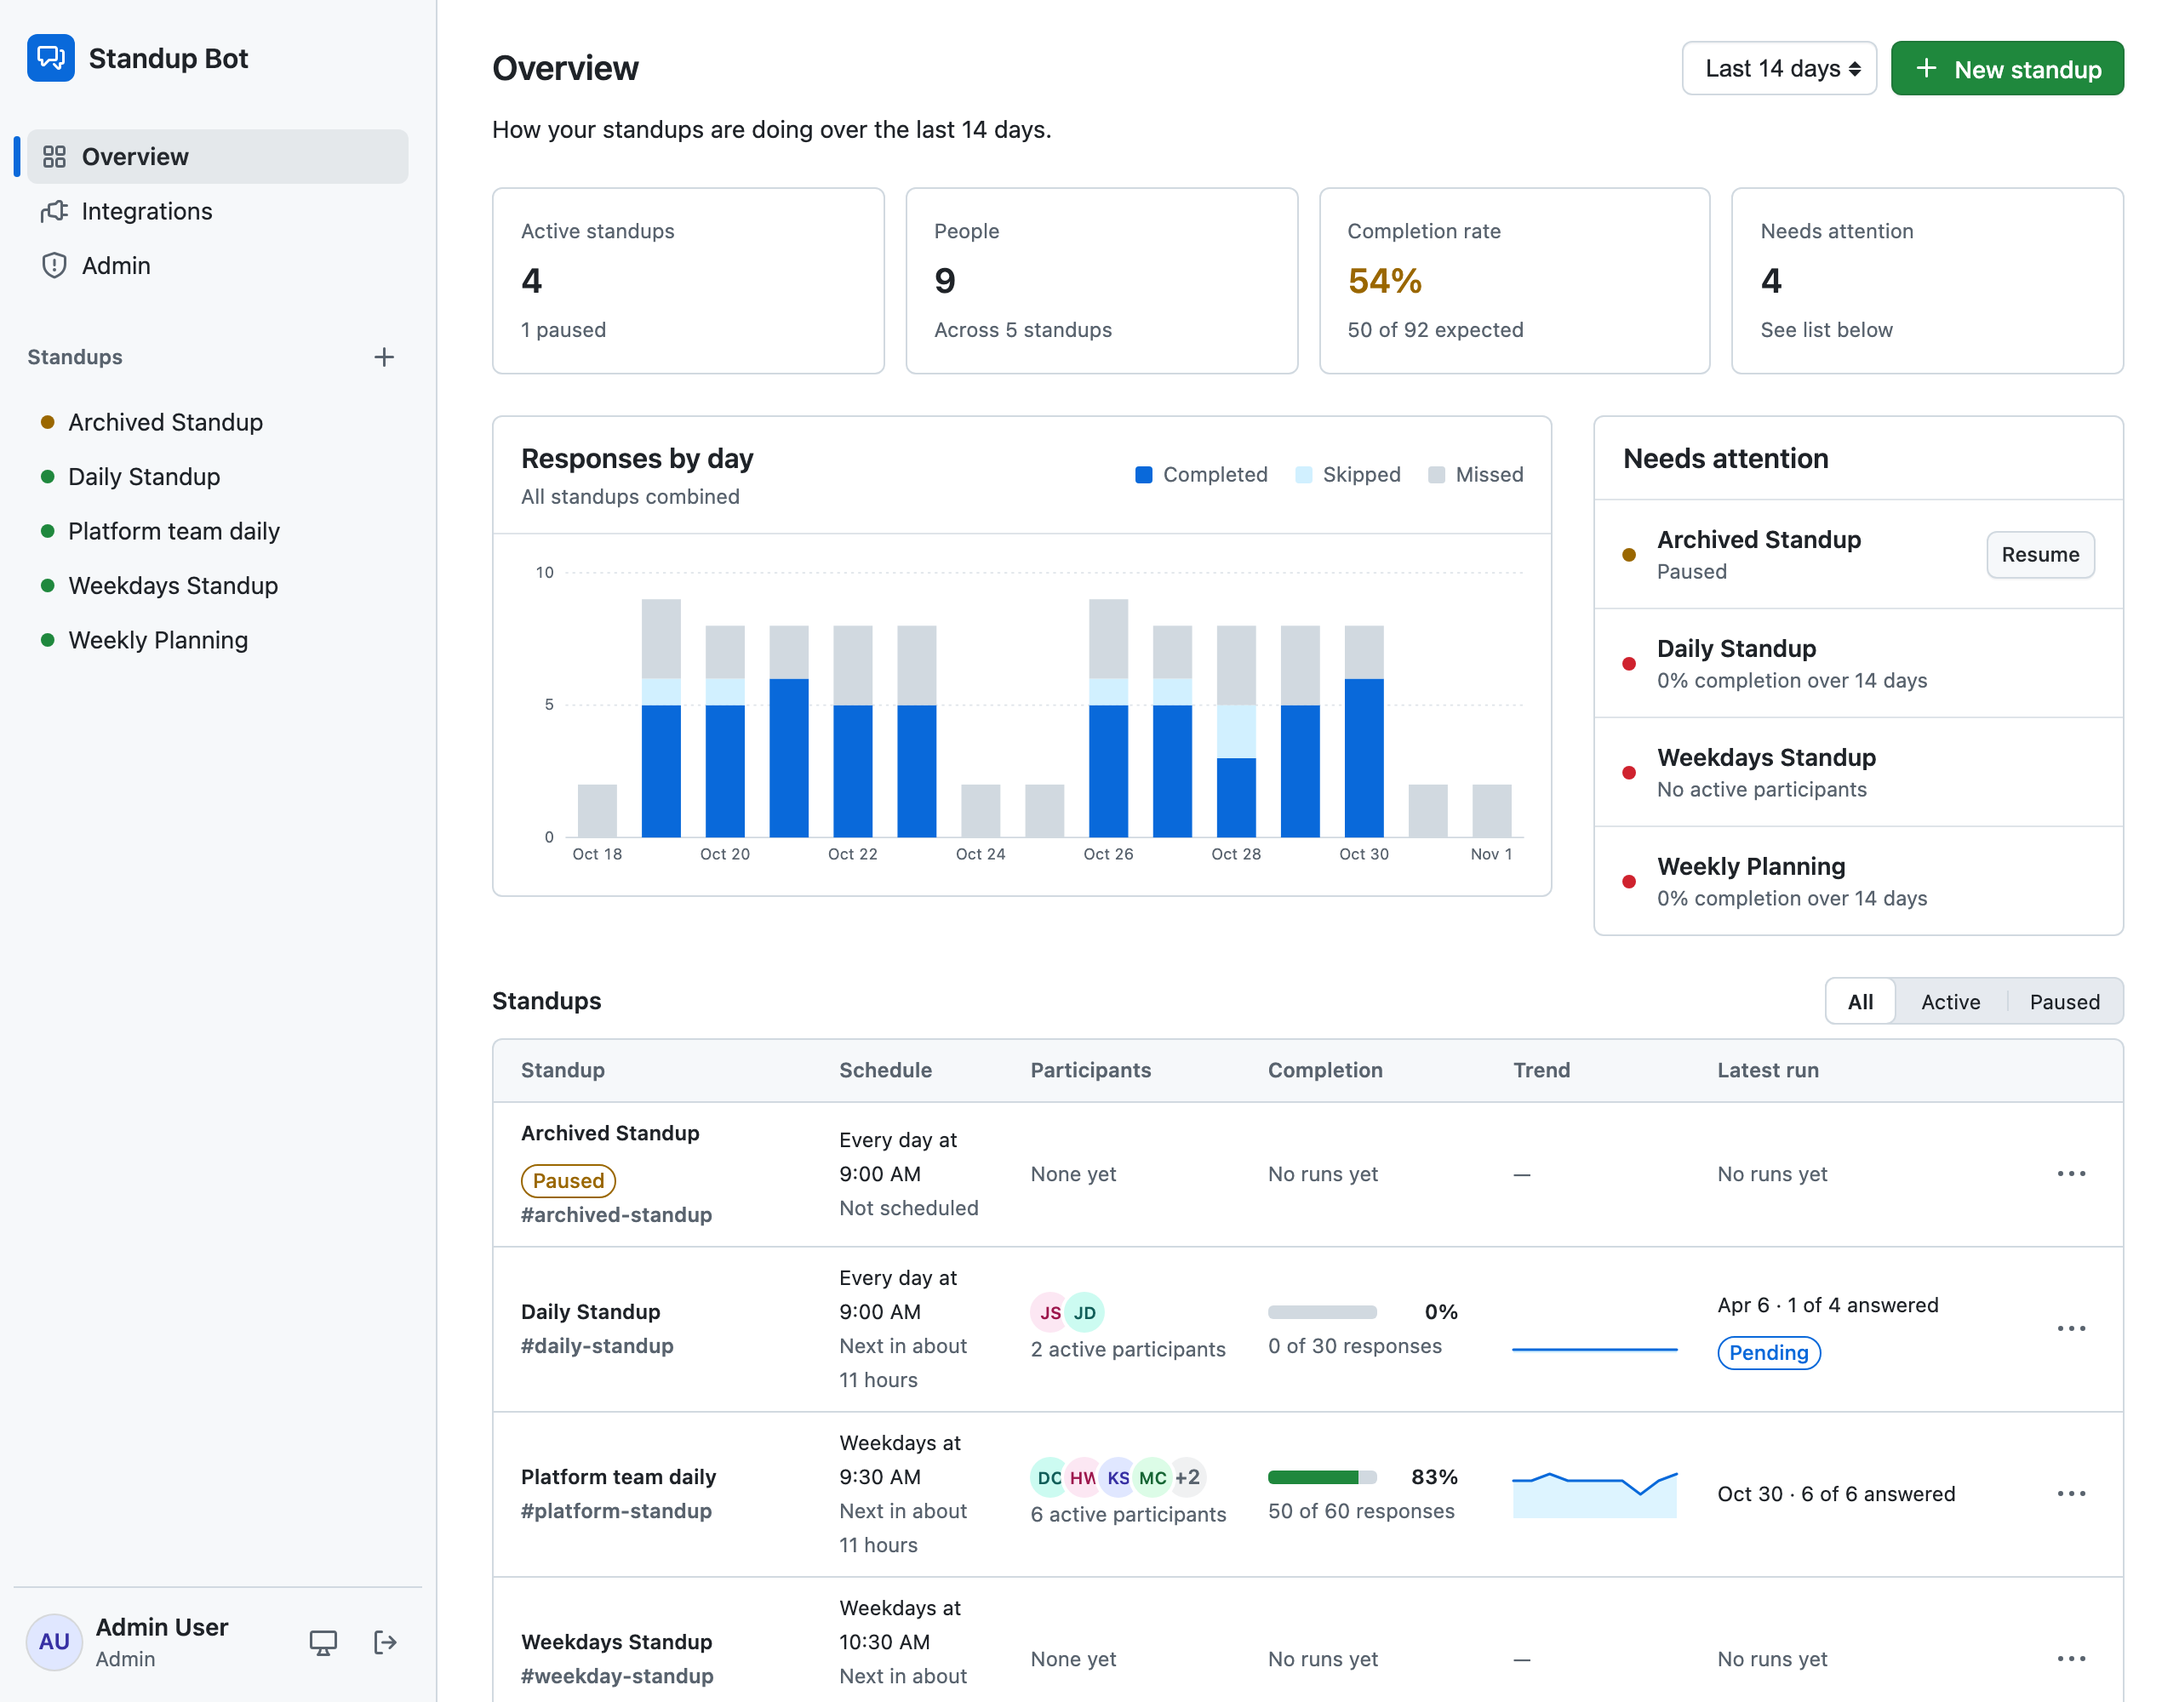
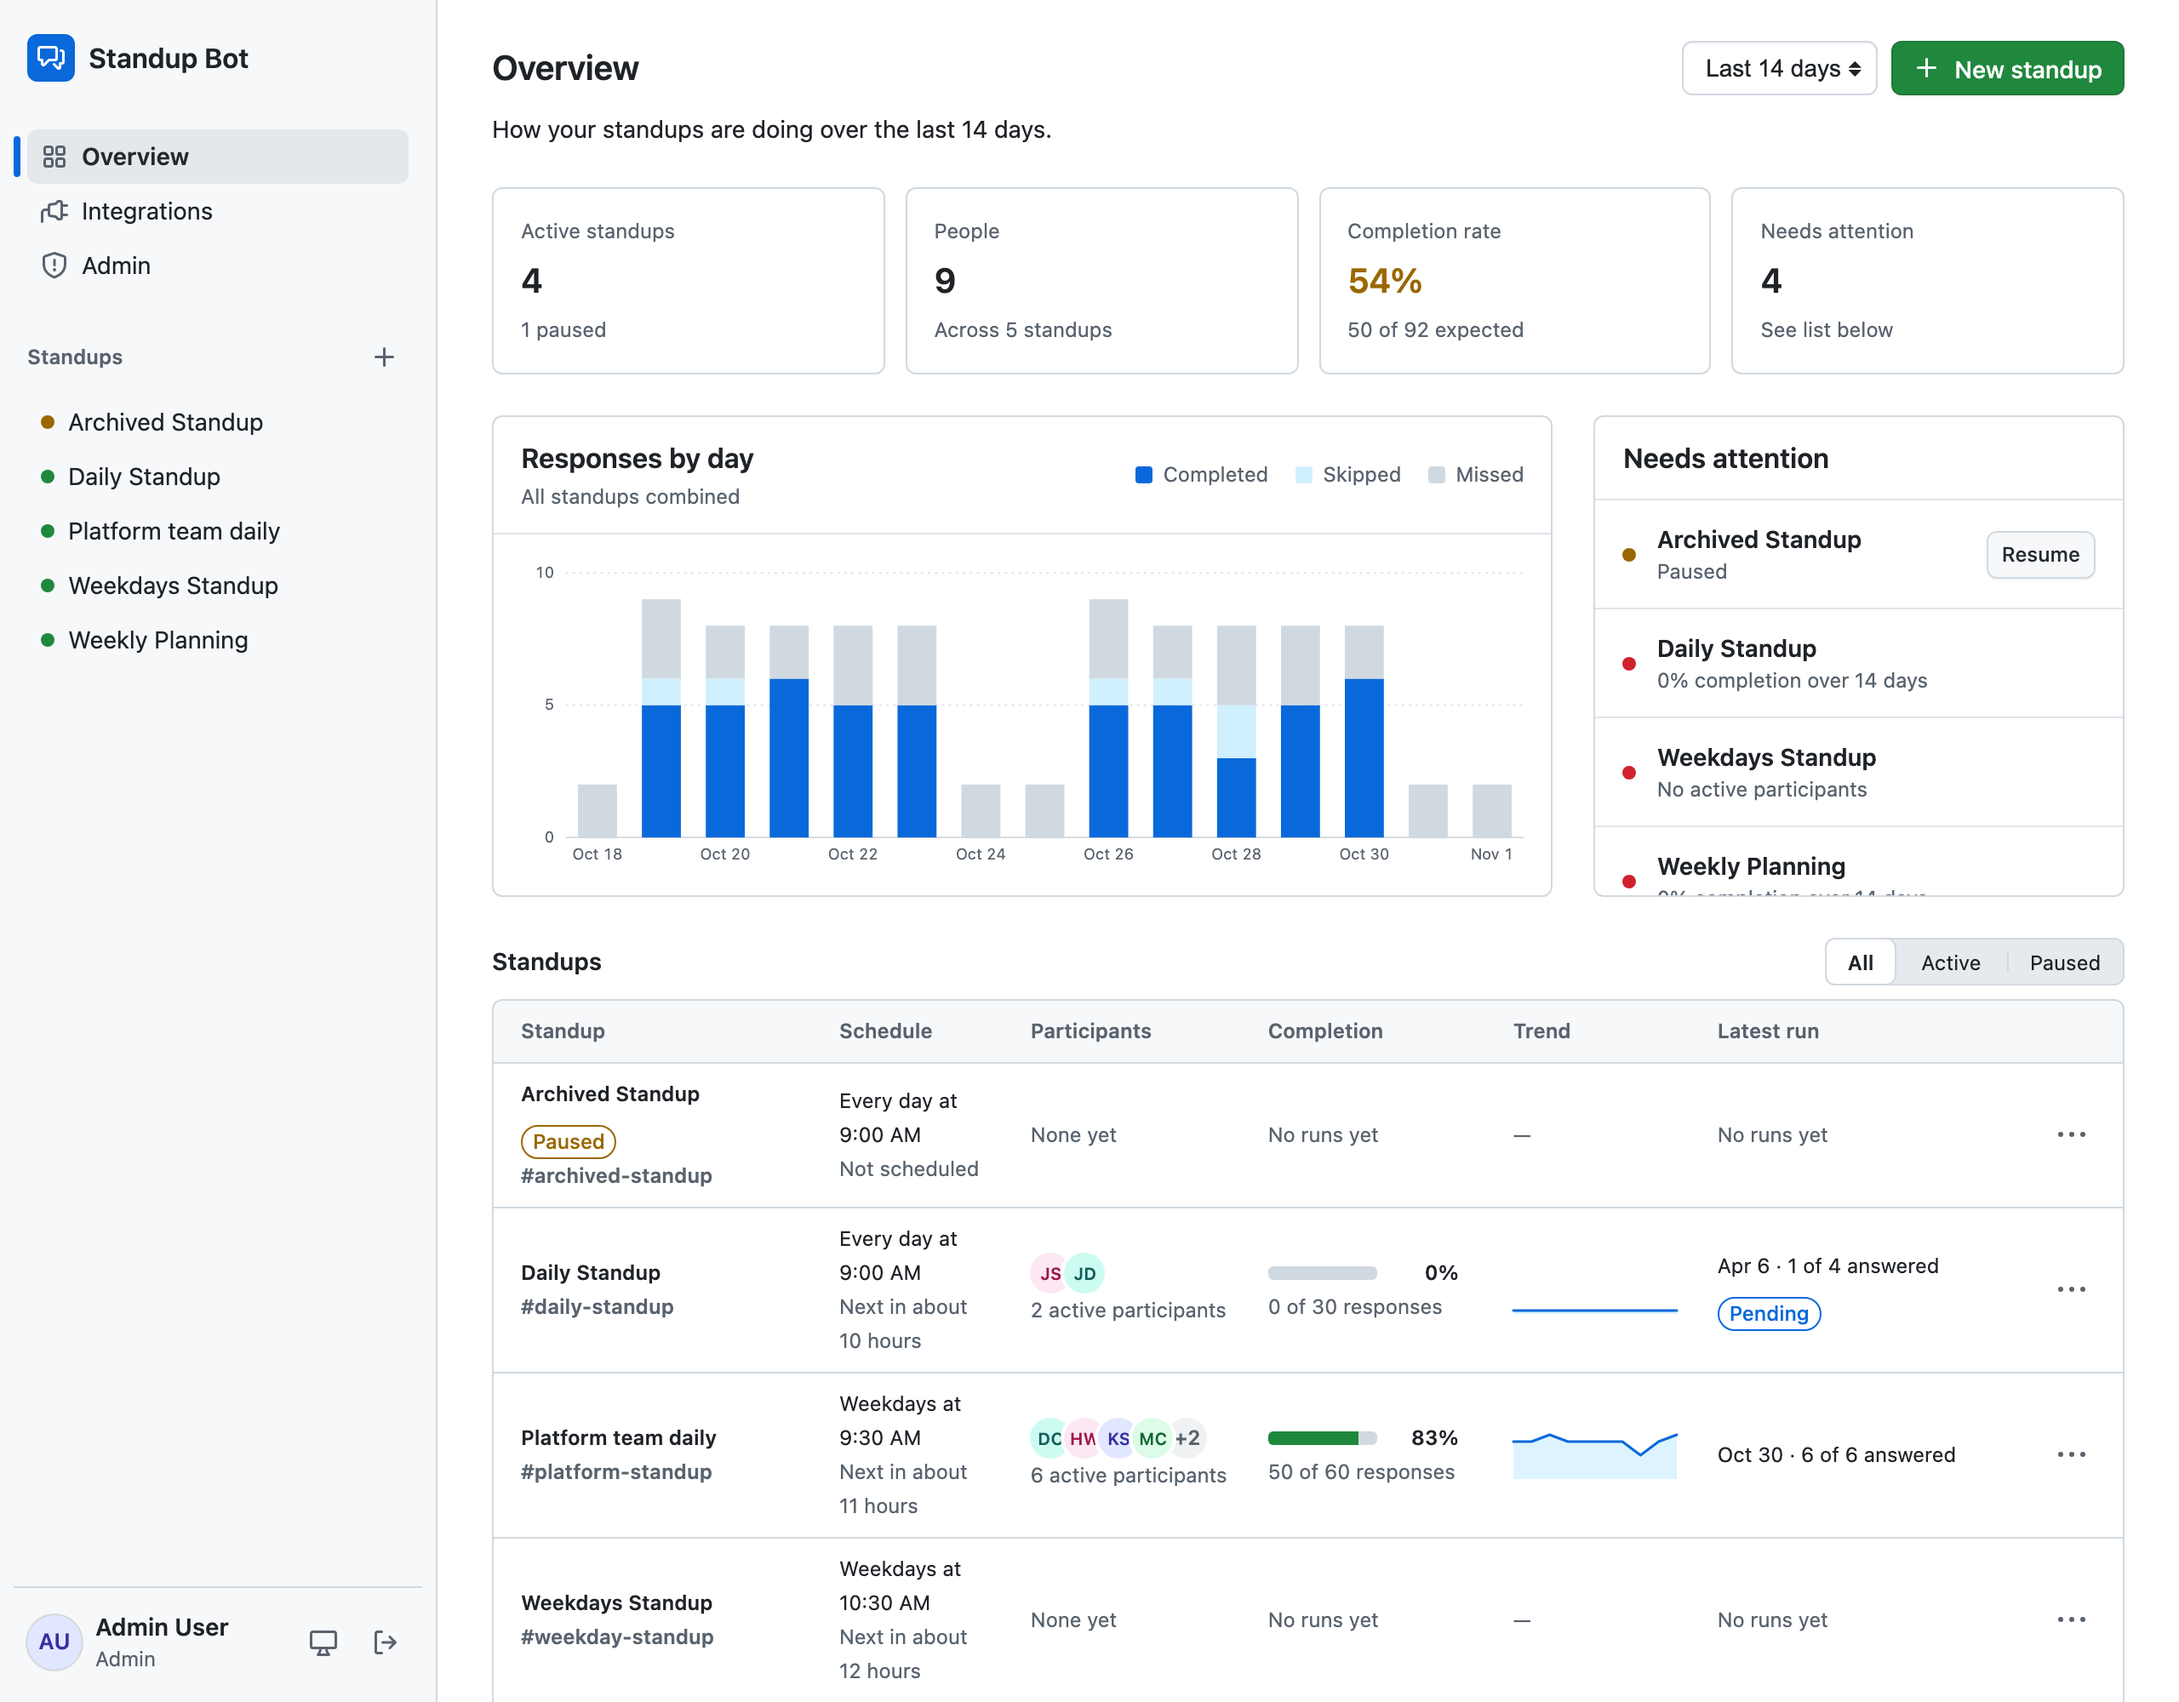
Line up side-by-side cards on the overview and admin pages
On the overview, the chart now sets the row's height and Needs attention
matches it, scrolling when there are more items. The admin dashboard's
activity chart and response totals now share a height too. An
unconfigured chat platform's health card shows a neutral label instead of
a green or yellow one.

diff --git a/frontend/src/pages/manager/StandupsIndexPage.tsx b/frontend/src/pages/manager/StandupsIndexPage.tsx
@@ -102,7 +102,7 @@ export function StandupsIndexPage() {
             <StatCard label="Needs attention" value={data.stats.needs_attention_count} hint={data.stats.needs_attention_label} />
           </StatGrid>
 
-          <div className={styles.mainAside}>
+          <div className={`${styles.mainAside} ${styles.matchHeights}`}>
             <Section title="Responses by day" hint="All standups combined" actions={<RunLegend pending={data.daily_has_pending} />}>
               <RunBreakdownChart runs={data.daily_totals} height={220} label="Responses by day across all standups" />
             </Section>
@@ -155,7 +155,7 @@ function NeedsAttention({
   onResume: (item: NeedsAttentionItem) => void;
 }) {
   return (
-    <Section title="Needs attention" flush>
+    <Section title="Needs attention" flush className={styles.fillRow}>
       {items.length > 0 ? (
         <ul className={styles.list}>
           {items.map((item) => (

diff --git a/frontend/src/pages/manager/standups/standups.module.css b/frontend/src/pages/manager/standups/standups.module.css
@@ -51,6 +51,25 @@
   align-items: start;
 }
 
+/* Side-by-side cards that line up: the main card sets the row's height, and
+   a .fillRow card matches it, scrolling its list if it has more to show. */
+.matchHeights {
+  align-items: stretch;
+}
+
+.fillRow {
+  display: flex;
+  flex-direction: column;
+  height: 0;
+  min-height: 100%;
+}
+
+.fillRow > .list {
+  flex: 1;
+  min-height: 0;
+  overflow-y: auto;
+}
+
 .stack {
   display: flex;
   flex-direction: column;
@@ -159,6 +178,11 @@
 }
 
 @media (max-width: 1011px) {
+  .fillRow {
+    height: auto;
+    min-height: 0;
+  }
+
   .mainAside {
     grid-template-columns: minmax(0, 1fr);
   }

diff --git a/frontend/src/pages/admin/components/admin.module.css b/frontend/src/pages/admin/components/admin.module.css
@@ -113,7 +113,6 @@
 .mainAside {
   display: grid;
   grid-template-columns: minmax(0, 1fr) minmax(16rem, 22rem);
-  align-items: start;
   gap: var(--base-size-16);
 }
 

diff --git a/app/serializers/admin_dashboard_serializer.rb b/app/serializers/admin_dashboard_serializer.rb
@@ -65,14 +65,15 @@ class AdminDashboardSerializer
   def health_card(key, label, icon)
     check = @health[:checks][key] || {}
     state = check[:status].to_s.presence || "warn"
-    platform_check = key.in?(%i[slack_api teams_api])
+    # An unconfigured chat platform isn't a fault, so its label stays neutral.
+    unconfigured = key.in?(%i[slack_api teams_api]) && !check[:configured]
     {
       key: key.to_s,
       label: label,
       icon: icon,
       status: state,
-      status_label: platform_check && !check[:configured] ? "Not configured" : CHECK_LABELS.fetch(state, state),
-      status_tone: CHECK_TONES[state],
+      status_label: unconfigured ? "Not configured" : CHECK_LABELS.fetch(state, state),
+      status_tone: unconfigured ? nil : CHECK_TONES[state],
       details: health_details(key, check)
     }
   end

diff --git a/test/controllers/api/admin_dashboard_test.rb b/test/controllers/api/admin_dashboard_test.rb
@@ -59,6 +59,16 @@ class Api::AdminDashboardTest < ActionDispatch::IntegrationTest
     assert_equal "Standup ##{standups(:daily).id}", log["auditable_label"]
   end
 
+  test "unconfigured chat platforms are shown neutrally, not as healthy or failing" do
+    HealthCheckService.stubs(:teams_check).returns({ status: "ok", configured: false })
+
+    get api_admin_dashboard_path, headers: { "Authorization" => "Bearer #{ADMIN_TOKEN}" }, as: :json
+
+    teams = response.parsed_body["health_checks"].find { |check| check["key"] == "teams_api" }
+    assert_equal "Not configured", teams["status_label"]
+    assert_nil teams["status_tone"]
+  end
+
   test "failed report deliveries are listed" do
     sign_in(users(:admin), "admin-access-token")
 
